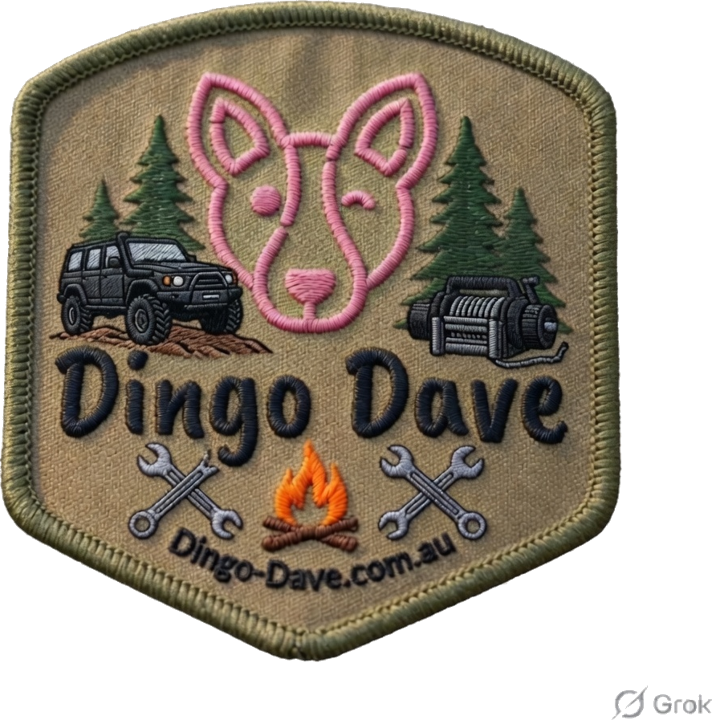
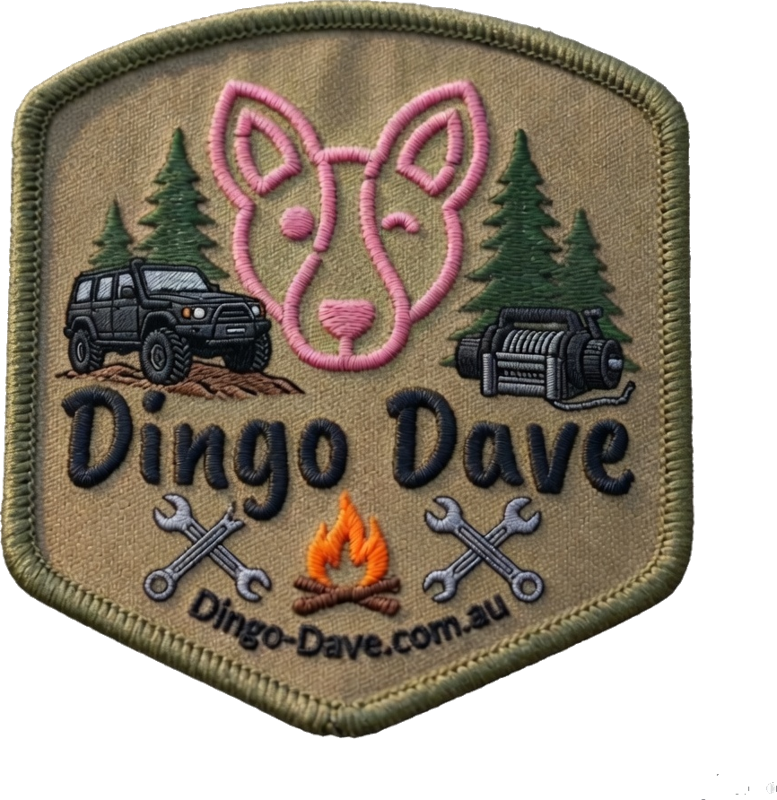
Use the patch with the background removed

diff --git a/index.html b/index.html
@@ -399,7 +399,7 @@
             <figcaption>Dingo Approved. Six seconds.</figcaption>
           </figure>
           <figure class="patch">
-            <img src="photos/dingo-dave-patch.png" alt="An embroidered shield patch: a pink dingo, a four-wheel drive, a winch, a campfire and crossed tools, lettered Dingo Dave." />
+            <img src="photos/dingo-dave-patch.png?v=3" alt="An embroidered shield patch: a pink dingo, a four-wheel drive, a winch, a campfire and crossed tools, lettered Dingo Dave." />
             <figcaption>The sewn mark. <a href="https://dingo-dave.com.au/">Dingo Dave</a></figcaption>
           </figure>
           <p>
